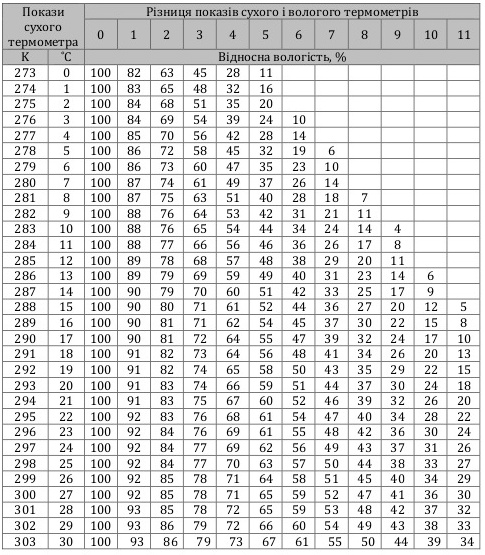
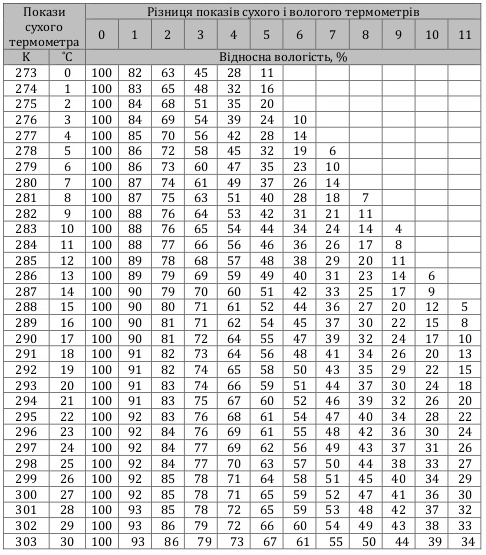
fix: random values in psihrometr

Changed region(s): [[0.0, 0.0, 0.7732, 1.0], [0.3093, 0.0, 0.8041, 0.0919], [0.8041, 0.4901, 0.8351, 0.9802]]

diff --git a/js/psihrometr/js.js b/js/psihrometr/js.js
@@ -39,23 +39,47 @@ pressure = new Array(
   2810,
   3170
 );
+
+const densityDamp = [
+  4.8, 5.2, 5.6, 6.0, 6.4, 6.9, 7.3, 7.8, 8.3, 8.9, 9.4, 10.1, 10.7, 11.4, 12.1,
+  12.9, 13.6, 14.5, 15.4, 16.4, 17.3, 18.4, 19.4, 20.6, 21.8, 23.1, 24.4, 25.8,
+  27.2, 28.8, 30.3,
+];
+
 var damples = [
-  [100, 81, 63, 45, 28, 11, 0, 0, 0, 0, 0],
-  [100, 81, 63, 45, 28, 11, 0, 0, 0, 0, 0],
-  [100, 84, 69, 54, 39, 24, 12, 0, 0, 0, 0],
-  [100, 85, 73, 58, 45, 31, 18, 5, 0, 0, 0],
-  [100, 86, 73, 60, 47, 35, 23, 10, 0, 0, 0],
-  [100, 87, 75, 63, 51, 40, 28, 18, 7, 0, 0],
-  [100, 88, 76, 65, 54, 44, 34, 24, 14, 5, 0],
-  [100, 89, 77, 67, 56, 46, 36, 27, 18, 8, 5],
-  [100, 89, 79, 69, 58, 50, 40, 32, 22, 14, 7],
-  [100, 90, 80, 70, 61, 53, 44, 36, 27, 19, 12],
-  [100, 90, 81, 71, 62, 54, 45, 37, 30, 22, 15],
-  [100, 91, 82, 73, 65, 56, 49, 41, 34, 27, 20],
-  [100, 91, 83, 74, 66, 59, 51, 44, 37, 30, 24],
-  [100, 92, 83, 75, 67, 61, 52, 46, 39, 35, 26],
-  [100, 92, 83, 77, 69, 62, 55, 48, 41, 36, 33],
-  [100, 92, 84, 78, 70, 63, 57, 50, 44, 41, 38],
+  [100, 82, 63, 45, 28, 11, 0, 0, 0, 0, 0, 0],
+  [100, 83, 65, 48, 32, 16, 0, 0, 0, 0, 0, 0],
+  [100, 84, 68, 51, 35, 20, 0, 0, 0, 0, 0, 0],
+  [100, 84, 69, 54, 39, 24, 10, 0, 0, 0, 0, 0],
+  [100, 85, 70, 56, 42, 28, 14, 0, 0, 0, 0, 0],
+  [100, 86, 72, 58, 45, 32, 19, 6, 0, 0, 0, 0],
+  [100, 86, 73, 60, 47, 35, 23, 10, 0, 0, 0, 0],
+  [100, 87, 74, 61, 49, 37, 26, 14, 0, 0, 0, 0],
+  [100, 87, 75, 63, 51, 40, 28, 18, 7, 0, 0, 0],
+  [100, 88, 76, 64, 53, 42, 31, 21, 11, 0, 0, 0],
+  [100, 88, 76, 65, 54, 44, 34, 24, 14, 4, 0, 0],
+  [100, 88, 77, 66, 56, 46, 36, 26, 17, 8, 0, 0],
+  [100, 89, 78, 68, 57, 48, 38, 29, 20, 11, 0, 0],
+  [100, 89, 79, 69, 59, 49, 40, 31, 23, 14, 6, 0],
+  [100, 90, 79, 70, 60, 51, 42, 33, 25, 17, 9, 0],
+  [100, 90, 80, 71, 61, 52, 44, 36, 27, 20, 12, 5],
+  [100, 90, 81, 71, 62, 54, 45, 37, 30, 22, 15, 8],
+  [100, 90, 81, 72, 64, 55, 47, 39, 32, 24, 17, 10],
+  [100, 90, 81, 72, 64, 56, 48, 41, 34, 26, 20, 13],
+  [100, 91, 82, 73, 64, 56, 48, 41, 34, 26, 20, 13],
+  [100, 91, 82, 74, 65, 58, 50, 43, 35, 29, 22, 15],
+  [100, 91, 83, 74, 66, 59, 51, 44, 37, 30, 24, 18],
+  [100, 91, 83, 75, 67, 60, 52, 46, 39, 32, 26, 20],
+  [100, 91, 83, 75, 67, 60, 52, 46, 39, 32, 26, 20],
+  [100, 92, 83, 76, 68, 61, 54, 47, 40, 34, 28, 22],
+  [100, 92, 84, 76, 69, 61, 55, 48, 42, 36, 30, 24],
+  [100, 92, 84, 77, 69, 62, 56, 49, 43, 37, 31, 26],
+  [100, 92, 84, 77, 70, 63, 57, 50, 44, 38, 33, 27],
+  [100, 92, 85, 78, 71, 64, 58, 51, 45, 40, 34, 29],
+  [100, 92, 85, 78, 71, 65, 59, 52, 47, 41, 36, 30],
+  [100, 93, 85, 78, 72, 65, 59, 53, 48, 42, 37, 32],
+  [100, 93, 86, 79, 72, 66, 60, 54, 49, 43, 38, 33],
+  [100, 93, 86, 79, 73, 67, 61, 55, 50, 44, 39, 34],
 ];
 
 ans = new Array();
@@ -237,57 +261,77 @@ function test1() {
 }
 
 function interpolate(value) {
-    const points = [
-      { x: 6, y: 8 },
-      { x: 8, y: 12 },
-      { x: 10, y: 15 },
-      { x: 12, y: 18 },
-      { x: 17, y: 22 },
-    ];
-  
-    // Знаходимо два найближчі опорні значення
-    let i = 0;
-    while (i < points.length - 1 && points[i + 1].x < value) {
-      i++;
-    }
-  
-    const p0 = points[i];
-    const p1 = points[i + 1];
-  
-    // Обчислюємо інтерпольоване значення
-    const t = (value - p0.x) / (p1.x - p0.x);
-    const y = p0.y + t * (p1.y - p0.y);
-  
-    return y;
+  const points = [
+    { y: 7, x: 5 },
+    { y: 9, x: 6 },
+    { y: 10, x: 7 },
+    { y: 12, x: 8 },
+    { y: 14, x: 9 },
+    { y: 15, x: 10 },
+    { y: 20.5, x: 13 },
+    { y: 22.5, x: 14 },
+  ];
+
+  // Знаходимо два найближчі опорні значення
+  let i = 0;
+  while (i < points.length - 1 && points[i + 1].x < value) {
+    i++;
   }
+
+  const p0 = points[i];
+  const p1 = points[i + 1];
+
+  // Обчислюємо інтерпольоване значення
+  const t = (value - p0.x) / (p1.x - p0.x);
+  const y = p0.y + t * (p1.y - p0.y);
+
+  return y;
+}
 
 function getRandomNumber(min, max) {
-    // Випадкове число включно з min та max
-    return Math.floor(Math.random() * (max - min + 1)) + min;
-  }
+  // Випадкове число включно з min та max
+  return Math.floor(Math.random() * (max - min + 1)) + min;
+}
 
 function init_new() {
-  let numberVolum = getRandomNumber(6, 12);
+  let numberVolum = getRandomNumber(7, 14);
   y = numberVolum;
   if (numberVolum > 4) {
     y = 4;
   }
-  let dt = getRandomNumber(numberVolum - 5, numberVolum-1);
-  console.log('сухий ', interpolate(numberVolum));
-  console.log('вологий ', interpolate(dt));
+  let dt = getRandomNumber(numberVolum - 3, numberVolum - 1);
+  //   console.log('сухий ', (numberVolum));
+  //   console.log('вологий ', (dt));
+
+  const tempDry = Math.round(interpolate(numberVolum));
+  const tempWet = Math.round(interpolate(dt));
+  const dtOri = tempDry - tempWet;
+  console.log("сухий ", tempDry);
+  console.log("вологий ", tempWet);
+  const humidity = damples[tempDry][dtOri];
+  console.log(humidity);
+
+  const densitySaturation = densityDamp[tempDry];
+  const density = (humidity * densitySaturation) / 100;
+
+  document.getElementById("dt_ori").value = `${dtOri}`;
+  document.getElementById("humidity_ori").value = `${humidity}`;
+  document.getElementById("r1c2_ori").value = `${interpolate(numberVolum)}`;
+  document.getElementById("r1c3_ori").value = `${interpolate(dt)}`;
+  document.getElementById("density_ori").value = `${density}`;
+  document.getElementById(
+    "density_saturation_ori"
+  ).value = `${densitySaturation}`;
 
   for (k = 1; k < numberVolum; k++) {
     let level = "u" + k; // выбор ячейки таблицы температуры сухого
     document.getElementById(level).style.background = "#000000";
-    
-    
   }
 
   for (n = 1; n < dt; n++) {
     let level = "u" + (n + 20); // выбор ячейки таблицы температуры влажного
     document.getElementById(level).style.background = "#000000";
   } //-- печать высоты столбика по номеру температуры
-  
 }
 
 init_new();

diff --git a/psihrometr.html b/psihrometr.html
@@ -93,6 +93,9 @@
         <img src="./img/psihrometr/2024-02-28_154634.png" alt="">
     </div>
     <div style="position: fixed; top:150px; right:10px;">
+        <!-- <img class="term1" style="position: absolute;" src="./img/psihrometr/termometr.png" alt="">
+        <img class="term2" style="position: absolute;" src="./img/psihrometr/termometr.png" alt="">
+        <table style="position: absolute; right:0; top:0;" border="0" cellspacing="0" cellpadding="0" width="180" height="500" > -->
         <table border="0" cellspacing="0" cellpadding="0" width="180" height="500" background="./img/psihrometr/termometr.png">
         <tbody><tr>
           <td colspan="4" height="30">сухий</td>
@@ -338,6 +341,13 @@
     <div class="submit_block">
         <button id="submin_button">Відправити</button>
     </div>
+
+    <input class="cell" id="r1c2_ori" type="number" hidden>
+    <input class="cell" id="r1c3_ori" type="number" hidden>
+    <input class="cell" id="dt_ori" type="number" hidden>
+    <input class="cell" id="humidity_ori" type="number" hidden>
+    <input class="cell" id="density_ori" type="number" hidden>
+    <input class="cell" id="density_saturation_ori" type="number" hidden>
 
 </body>
 </html>

diff --git a/css/psihrometr/style.css b/css/psihrometr/style.css
@@ -4,3 +4,17 @@
 .td_c {
     width: 20px;
 }
+
+table {
+    /* background-size: 100px; */
+}
+
+.term1 {
+    right: 84px;
+    height: 530px;
+}
+.term2 {
+    right: -7px;
+    height: 530x;
+}
+
